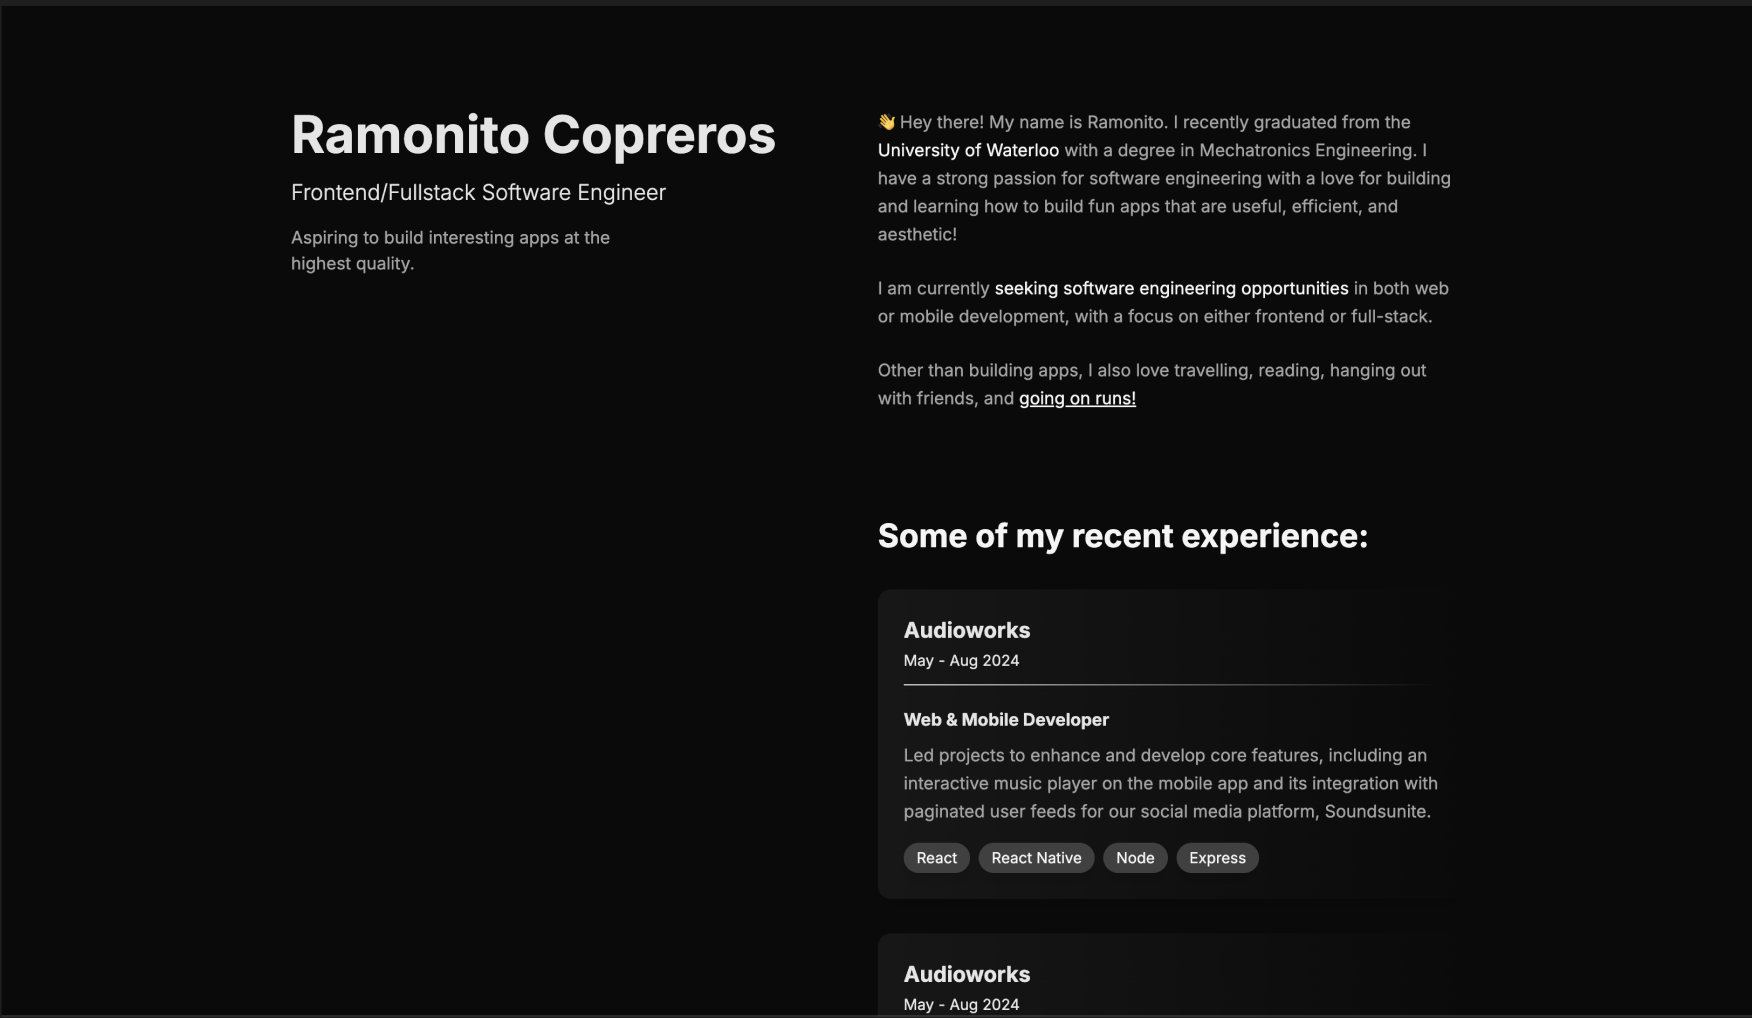
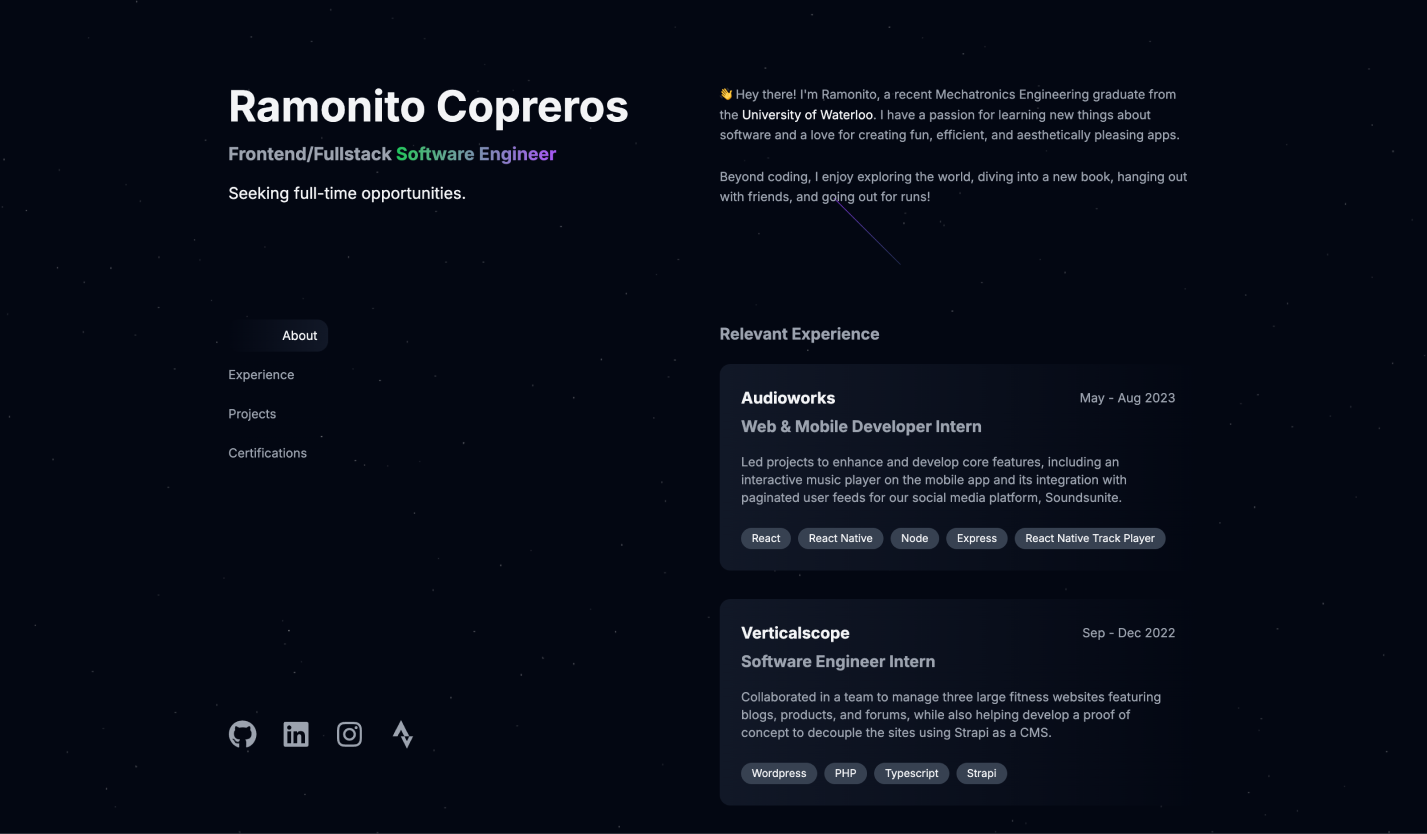
Color change and build error fixes

diff --git a/components/Sections/Resume.tsx b/components/Sections/Resume.tsx
@@ -10,17 +10,18 @@ const Resume = () => {
     <div className="py-16 lg:py-24">
       <section
         id="about"
-        className="mb-32 scroll-mt-24 text-sm leading-relaxed text-neutral-400"
+        className="mb-32 scroll-mt-24 text-sm leading-relaxed text-gray-400"
       >
-        <div className="sticky top-0 mb-5 bg-neutral-950 py-4 text-xl font-bold text-neutral-100 opacity-90 lg:hidden lg:py-0">
+        <div className="sticky top-0 mb-5 bg-gray-950 py-4 text-xl font-bold text-gray-100 opacity-90 lg:hidden lg:py-0">
           <h1>About</h1>
         </div>
         <p className="mb-6">
-          👋 Hey there! I'm Ramonito, a recent Mechatronics Engineering graduate
-          from the
-          <span className="text-neutral-100"> University of Waterloo</span>. I
-          have a passion for learning new things about software and a love for
-          creating fun, efficient, and aesthetically pleasing apps.
+          👋 Hey there! I&aposm Ramonito, a recent Mechatronics Engineering
+          graduate from the
+          <span className="text-gray-100"> University of Waterloo</span>. I have
+          a passion for learning new things about software and a love for
+          creating fun, efficient, and aesthetically pleasing solutions to
+          problems.
         </p>
 
         <p className="mb-6">
@@ -30,9 +31,9 @@ const Resume = () => {
       </section>
       <section
         id="experience"
-        className="mb-32 scroll-mt-24 leading-relaxed text-neutral-400"
+        className="mb-32 scroll-mt-24 leading-relaxed text-gray-400"
       >
-        <div className="sticky top-0 mb-5 bg-neutral-950 py-4 text-xl font-bold text-neutral-100 opacity-90 lg:relative lg:py-0 lg:text-lg lg:text-neutral-400 lg:opacity-100">
+        <div className="sticky top-0 mb-5 bg-gray-950 py-4 text-xl font-bold text-gray-100 opacity-90 lg:relative lg:py-0 lg:text-lg lg:text-gray-400 lg:opacity-100">
           <h1>Relevant Experience</h1>
         </div>
         <ExperienceCard
@@ -65,7 +66,7 @@ const Resume = () => {
           date="Sep - Dec 2020"
           position="Software Engineer Intern"
           description="Worked closely with UI teams and engineers to enhance and maintain our movie webstore application, 
-          taking the lead on the main updates to the user's downloads page."
+          taking the lead on the main updates to the user&aposs downloads page."
           skills={["Javascript", "HTML", "CSS", "PHP", "SQL", "Knockout.js"]}
         />
 
@@ -73,7 +74,7 @@ const Resume = () => {
       </section>
 
       <section id="projects" className="mb-32 scroll-mt-24">
-        <div className="sticky top-0 mb-5 bg-neutral-950 py-4 text-xl font-bold text-neutral-100 opacity-90 lg:relative lg:py-0 lg:text-lg lg:text-neutral-400 lg:opacity-100">
+        <div className="sticky top-0 mb-5 bg-gray-950 py-4 text-xl font-bold text-gray-100 opacity-90 lg:relative lg:py-0 lg:text-lg lg:text-gray-400 lg:opacity-100">
           <h1>Featured Projects</h1>
         </div>
         <ProjectCard
@@ -99,7 +100,7 @@ const Resume = () => {
           link="https://github.com/RCopJr/portfolio"
           description="This thoughtfully designed portfolio built to showcase my work while honing 
           my UI development and design skills."
-          skills={["React", "Tailwind", "Next.js"]}
+          skills={["React", "Tailwind", "Next.js", "Aceternity UI"]}
         />
 
         <ViewMoreAction
@@ -108,7 +109,7 @@ const Resume = () => {
         />
       </section>
       <section id="certifications" className="mb-32 scroll-mt-24">
-        <div className="sticky top-0 mb-5 bg-neutral-950 py-4 text-xl font-bold text-neutral-100 opacity-90 lg:relative lg:py-0 lg:text-lg lg:text-neutral-400 lg:opacity-100">
+        <div className="sticky top-0 mb-5 bg-gray-950 py-4 text-xl font-bold text-gray-100 opacity-90 lg:relative lg:py-0 lg:text-lg lg:text-gray-400 lg:opacity-100">
           <h1>Certifications</h1>
         </div>
         <CourseCard

diff --git a/components/Sections/Header.tsx b/components/Sections/Header.tsx
@@ -5,28 +5,28 @@ const Header = () => {
   return (
     <header className="flex flex-col justify-between py-16 lg:sticky lg:top-0 lg:h-screen lg:py-24">
       <div>
-        <h1 className="text-4xl font-bold text-neutral-100 lg:text-5xl">
+        <h1 className="text-4xl font-bold text-gray-100 lg:text-5xl">
           Ramonito Copreros
         </h1>
-        <h2 className="mt-4 text-lg font-bold text-neutral-400 lg:text-xl">
+        <h2 className="mt-4 text-lg font-bold text-gray-400 lg:text-xl">
           Frontend/Fullstack{" "}
           <span className="animate-gradient-slow bg-gradient-to-r from-blue-500 via-green-500 to-purple-500 bg-[length:200%_200%] bg-clip-text font-bold text-transparent">
             Software Engineer
           </span>
         </h2>
-        <p className="mt-4 max-w-xs text-lg text-neutral-100">
+        <p className="mt-4 max-w-xs text-lg text-gray-100">
           Seeking full-time opportunities.
         </p>
         <NavBar />
       </div>
-      <div className="mt-8 flex gap-7 text-neutral-400">
+      <div className="mt-8 flex gap-7 text-gray-400">
         <a
           href="https://github.com/RCopJr"
           target="_blank"
           rel="noopener noreferrer"
         >
           <svg
-            className="size-8 hover:text-neutral-100"
+            className="size-8 hover:text-gray-100"
             fill="currentColor"
             xmlns="http://www.w3.org/2000/svg"
             viewBox="0 0 496 512"
@@ -41,7 +41,7 @@ const Header = () => {
           rel="noopener noreferrer"
         >
           <svg
-            className="size-8 hover:text-neutral-100"
+            className="size-8 hover:text-gray-100"
             fill="currentColor"
             xmlns="http://www.w3.org/2000/svg"
             viewBox="0 0 448 512"
@@ -56,7 +56,7 @@ const Header = () => {
           rel="noopener noreferrer"
         >
           <svg
-            className="size-8 hover:text-neutral-100"
+            className="size-8 hover:text-gray-100"
             fill="currentColor"
             xmlns="http://www.w3.org/2000/svg"
             viewBox="0 0 448 512"
@@ -71,7 +71,7 @@ const Header = () => {
           rel="noopener noreferrer"
         >
           <svg
-            className="size-8 hover:text-neutral-100"
+            className="size-8 hover:text-gray-100"
             fill="currentColor"
             xmlns="http://www.w3.org/2000/svg"
             viewBox="0 0 384 512"

diff --git a/components/Cards/ProjectCard.tsx b/components/Cards/ProjectCard.tsx
@@ -1,3 +1,4 @@
+import Image from "next/image";
 import React from "react";
 import SkillBubble from "../SkillBubble";
 
@@ -21,15 +22,11 @@ const ProjectCard = ({
       href={link}
       target="_blank"
       rel="noopener noreferrer"
-      className="transform-all group mb-8 flex gap-5 rounded-xl bg-gradient-to-r from-neutral-800 via-neutral-900 to-neutral-950 bg-size-200 bg-pos-100 p-6 transition-all duration-300 hover:scale-105 hover:bg-pos-0"
+      className="transform-all duration-400 group mb-8 flex gap-5 rounded-xl bg-gradient-to-r from-gray-800 via-gray-900 to-gray-950 bg-size-200 bg-pos-100 p-6 transition-all hover:scale-105 hover:bg-pos-0"
     >
-      <img
-        alt={alt}
-        className="hidden h-20 md:inline-block"
-        src={imageSrc}
-      ></img>
+      <Image alt={alt} className="hidden h-20 md:inline-block" src={imageSrc} />
       <div>
-        <h1 className="mb-3 flex items-center gap-2 text-lg font-bold text-neutral-200">
+        <h1 className="mb-3 flex items-center gap-2 text-lg font-bold text-gray-200">
           {name}
           <svg
             className="size-5"
@@ -41,7 +38,7 @@ const ProjectCard = ({
             <path d="M320 0c-17.7 0-32 14.3-32 32s14.3 32 32 32l82.7 0L201.4 265.4c-12.5 12.5-12.5 32.8 0 45.3s32.8 12.5 45.3 0L448 109.3l0 82.7c0 17.7 14.3 32 32 32s32-14.3 32-32l0-160c0-17.7-14.3-32-32-32L320 0zM80 32C35.8 32 0 67.8 0 112L0 432c0 44.2 35.8 80 80 80l320 0c44.2 0 80-35.8 80-80l0-112c0-17.7-14.3-32-32-32s-32 14.3-32 32l0 112c0 8.8-7.2 16-16 16L80 448c-8.8 0-16-7.2-16-16l0-320c0-8.8 7.2-16 16-16l112 0c17.7 0 32-14.3 32-32s-14.3-32-32-32L80 32z" />
           </svg>
         </h1>
-        <p className="mb-6 text-sm text-neutral-400">{description}</p>
+        <p className="mb-6 text-sm text-gray-400">{description}</p>
         <div className="flex flex-wrap gap-2">
           {skills.map((skill, index) => (
             <SkillBubble key={index} skill={skill} />

diff --git a/components/Cards/CourseCard.tsx b/components/Cards/CourseCard.tsx
@@ -19,10 +19,10 @@ const CourseCard = ({
       href={link}
       target="_blank"
       rel="noopener noreferrer"
-      className="transform-all group mb-8 flex flex-col rounded-xl bg-gradient-to-r from-neutral-800 via-neutral-900 to-neutral-950 bg-size-200 bg-pos-100 p-6 transition-all duration-300 hover:scale-105 hover:bg-pos-0"
+      className="transform-all duration-400 group mb-8 flex flex-col rounded-xl bg-gradient-to-r from-gray-800 via-gray-900 to-gray-950 bg-size-200 bg-pos-100 p-6 transition-all hover:scale-105 hover:bg-pos-0"
     >
       <div className="mb-1 flex flex-wrap items-center justify-between text-lg">
-        <h1 className="flex items-center gap-2 text-lg font-bold text-neutral-200">
+        <h1 className="flex items-center gap-2 text-lg font-bold text-gray-200">
           {title}
           <svg
             className="size-5"
@@ -37,7 +37,7 @@ const CourseCard = ({
 
         <h3 className="text-sm">{date}</h3>
       </div>
-      <h2 className="mb-4 text-lg font-bold text-neutral-400">{platform}</h2>
+      <h2 className="mb-4 text-lg font-bold text-gray-400">{platform}</h2>
       <div className="flex flex-wrap gap-2">
         {skills.map((skill, index) => (
           <SkillBubble key={index} skill={skill} />

diff --git a/components/Cards/ExperienceCard.tsx b/components/Cards/ExperienceCard.tsx
@@ -15,14 +15,14 @@ const ExperienceCard = ({
   skills: string[];
 }) => {
   return (
-    <div className="mb-8 rounded-xl bg-gradient-to-r from-neutral-900 to-neutral-950 p-6 text-neutral-400">
+    <div className="mb-8 rounded-xl bg-gradient-to-r from-gray-900 to-gray-950 p-6 text-gray-400">
       <div className="mb-1 flex flex-wrap items-center justify-between text-lg">
-        <h1 className="font-bold text-neutral-100">{company}</h1>
+        <h1 className="font-bold text-gray-100">{company}</h1>
         <h3 className="text-sm">{date}</h3>
       </div>
-      {/* <div className="mb-2 h-[1px] bg-gradient-to-r from-neutral-100 via-neutral-100 to-neutral-950"></div> */}
-      <h2 className="mb-4 text-lg font-bold text-neutral-400">{position}</h2>
-      <p className="mb-6 text-sm text-neutral-400">{description}</p>
+      {/* <div className="mb-2 h-[1px] bg-gradient-to-r from-gray-100 via-gray-100 to-gray-950"></div> */}
+      <h2 className="mb-4 text-lg font-bold text-gray-400">{position}</h2>
+      <p className="mb-6 text-sm text-gray-400">{description}</p>
       <div className="flex flex-wrap gap-2">
         {skills.map((skill, index) => (
           <SkillBubble key={index} skill={skill} />

diff --git a/components/Sections/Footer.tsx b/components/Sections/Footer.tsx
@@ -5,9 +5,9 @@ const Footer = () => {
     <footer className="flex flex-col gap-1">
       <div>
         Deployed with <span>Vercel</span>. Built with{" "}
-        <span className="text-neutral-100">Next.js</span>,{" "}
-        <span className="text-neutral-100">Tailwind</span>, and{" "}
-        <span className="text-neutral-100">Aceternity UI</span>{" "}
+        <span className="text-gray-100">Next.js</span>,{" "}
+        <span className="text-gray-100">Tailwind</span>, and{" "}
+        <span className="text-gray-100">Aceternity UI</span>{" "}
       </div>
       <div>
         Main inspirations:{" "}
@@ -16,14 +16,14 @@ const Footer = () => {
           target="_blank"
           rel="noopener noreferrer"
         >
-          <span className="text-neutral-100">brittanychiang.com</span> and{" "}
+          <span className="text-gray-100">brittanychiang.com</span> and{" "}
         </a>
         <a
           href="https://cherupil.com/"
           target="_blank"
           rel="noopener noreferrer"
         >
-          <span className="text-neutral-100">cherupil.com</span>
+          <span className="text-gray-100">cherupil.com</span>
         </a>
       </div>
     </footer>

diff --git a/app/page.tsx b/app/page.tsx
@@ -1,12 +1,11 @@
 import Header from "@/components/Sections/Header";
 import Resume from "@/components/Sections/Resume";
 import { ShootingStars } from "@/components/UI/ShootingStars";
-import { Spotlight } from "@/components/UI/Spotlight";
 import { StarsBackground } from "@/components/UI/StarsBackground";
 
 export default function Home() {
   return (
-    <main className="flex flex-col lg:grid lg:grid-cols-2 lg:gap-4 px-6 sm:px-12 lg:px-24 mx-auto max-w-screen-xl">
+    <main className="mx-auto flex max-w-screen-xl flex-col px-6 sm:px-12 lg:grid lg:grid-cols-2 lg:gap-4 lg:px-24">
       <ShootingStars className="fixed -z-10" />
       <StarsBackground className="fixed -z-10" />
       <Header />

diff --git a/components/ViewMoreAction.tsx b/components/ViewMoreAction.tsx
@@ -9,7 +9,7 @@ const ViewMoreAction = ({
 }) => {
   return (
     <a
-      className="transform-all mt-10 flex transition-all duration-300 hover:text-neutral-100"
+      className="transform-all duration-400 mt-10 flex transition-all hover:text-gray-100"
       href={link}
       target="_blank"
       rel="noopener noreferrer"
@@ -17,7 +17,7 @@ const ViewMoreAction = ({
       <div className="flex flex-row items-center gap-2 font-bold">
         {text}
         <svg
-          className="size-5 hover:text-neutral-100"
+          className="size-5 hover:text-gray-100"
           fill="currentColor"
           xmlns="http://www.w3.org/2000/svg"
           viewBox="0 0 640 512"

diff --git a/components/Cards/NavItemCard.tsx b/components/Cards/NavItemCard.tsx
@@ -12,8 +12,8 @@ const NavItemCard = ({
   return (
     <a
       className={`${
-        isActive ? "bg-pos-100 text-neutral-100" : ""
-      } group flex w-28 rounded-xl bg-gradient-to-r from-neutral-950 via-neutral-950 to-neutral-900 bg-size-200 py-2 pr-3 text-sm transition-all duration-500 hover:bg-pos-100 hover:text-neutral-100`}
+        isActive ? "bg-pos-100 text-gray-100" : ""
+      } group flex w-28 rounded-xl bg-gradient-to-r from-gray-950 via-gray-950 to-gray-900 bg-size-200 py-2 pr-3 text-sm transition-all duration-500 hover:bg-pos-100 hover:text-gray-100`}
       href={sectionLink}
     >
       <div

diff --git a/app/layout.tsx b/app/layout.tsx
@@ -5,7 +5,7 @@ import "./globals.css";
 const inter = Inter({ subsets: ["latin"] });
 
 export const metadata: Metadata = {
-  title: "Ramonito Copreros Jr's Portfolio",
+  title: "Ramonito Copreros",
   description: "A minimal well designed portfolio site",
 };
 
@@ -16,7 +16,7 @@ export default function RootLayout({
 }>) {
   return (
     <html className="scroll-smooth" lang="en">
-      <body className={inter.className + " bg-neutral-950 text-neutral-400"}>
+      <body className={inter.className + " bg-gray-950 text-gray-400"}>
         {children}
       </body>
     </html>

diff --git a/components/SkillBubble.tsx b/components/SkillBubble.tsx
@@ -2,7 +2,7 @@ import React from "react";
 
 const SkillBubble = ({ skill }: { skill: string }) => {
   return (
-    <div className="inline-block rounded-full bg-neutral-700 px-3 py-1 text-xs text-neutral-100">
+    <div className="inline-block rounded-full bg-gray-700 px-3 py-1 text-xs text-gray-100">
       {skill}
     </div>
   );
